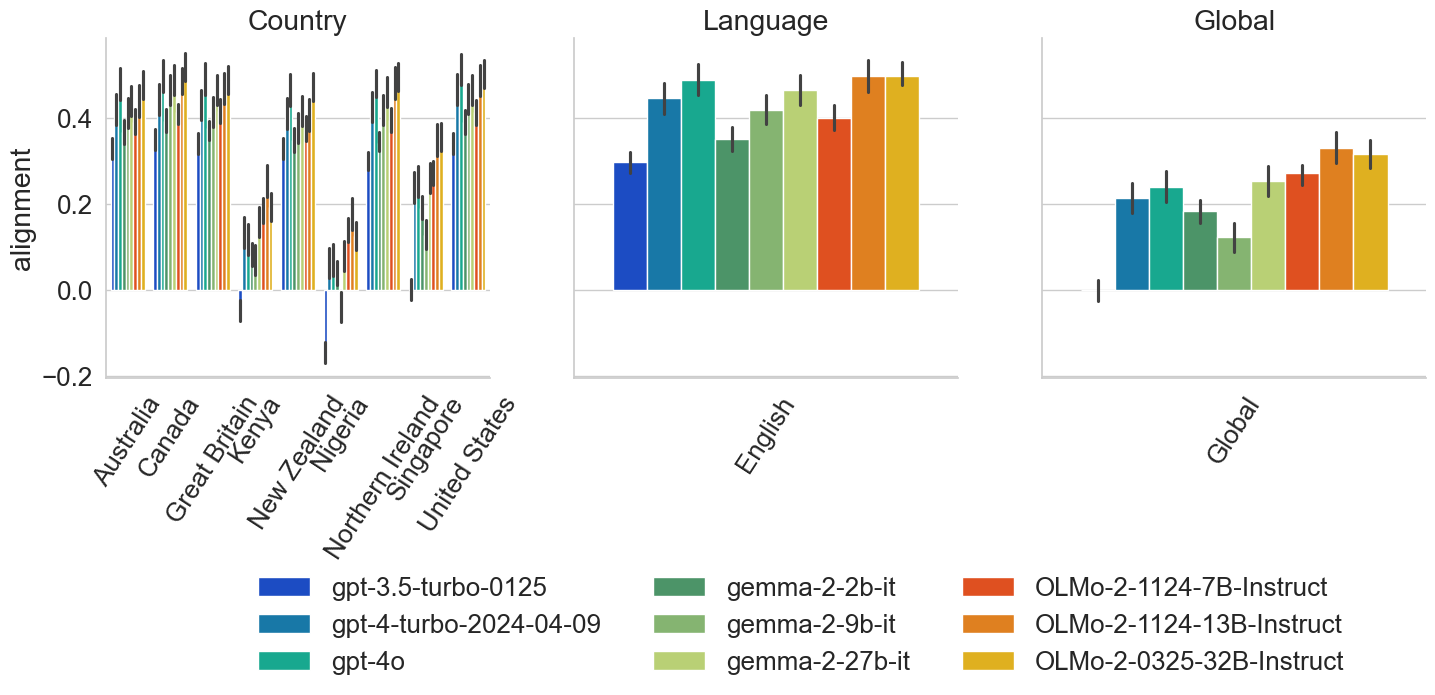
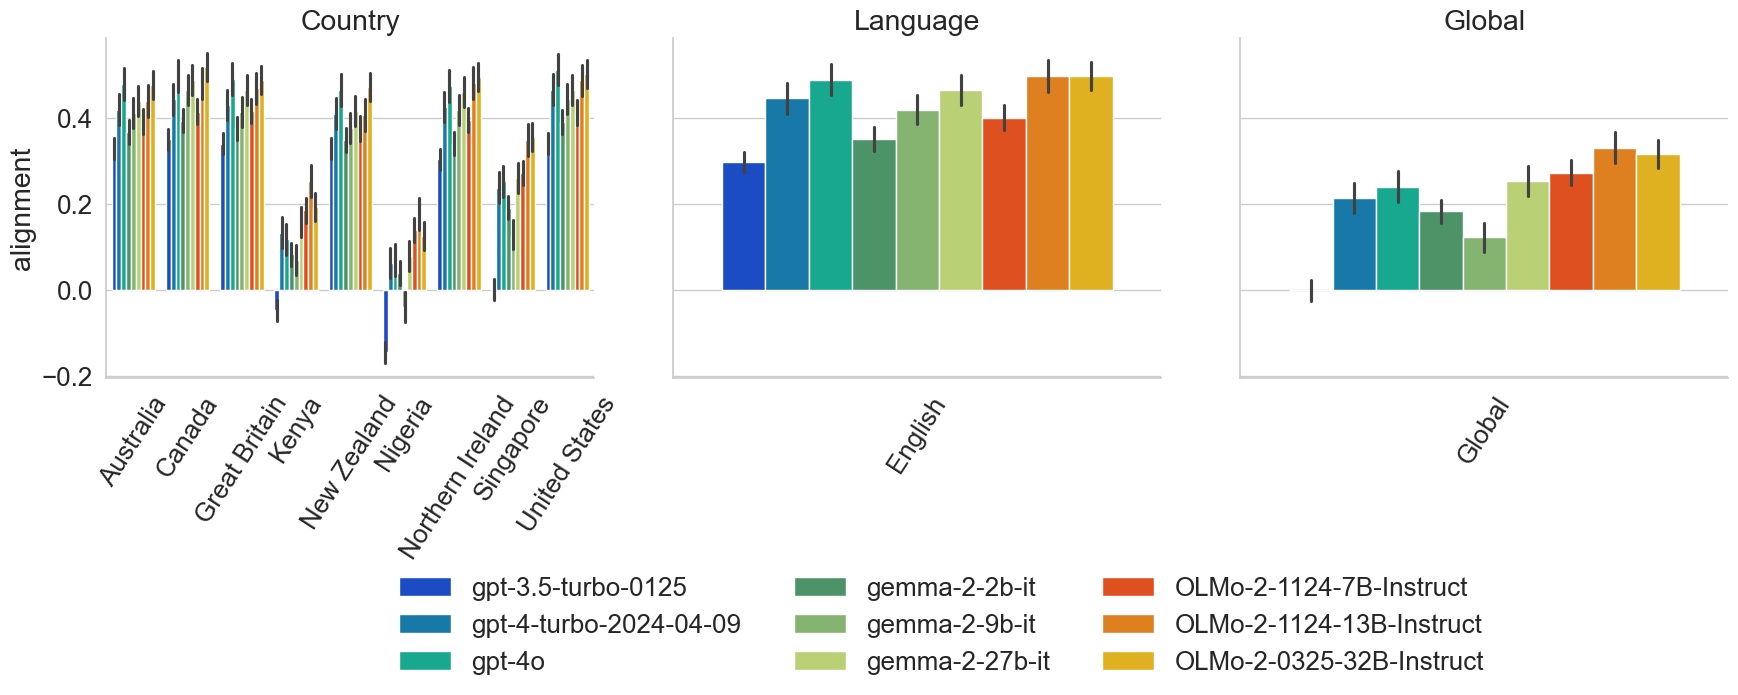
tweak

diff --git a/scripts/plot_language_analyses.py b/scripts/plot_language_analyses.py
@@ -83,7 +83,8 @@ def create_english_plot(filtered_plot_data: pl.DataFrame, metric: str) -> None:
         y="alignment",
         kind="bar",
         sharex=False,
-        errorbar="ci",
+        aspect=1.2,
+        errorbar=("pi", 100),
         palette=get_model_color_dict(),
     ).set_titles("{col_name}")
 
@@ -111,17 +112,18 @@ def create_monocultural_plot(filtered_plot_data: pl.DataFrame, metric: str) -> N
         y="alignment",
         kind="bar",
         sharex=False,
-        errorbar="ci",
-        aspect=1.3,
+        aspect=1.5,
+        errorbar="pi",
         palette=get_model_color_dict(),
     ).set_titles("{row_name} | {col_name}")
+    plt.subplots_adjust(hspace=0.35)  # Reduce vertical spacing (default is ~0.2-0.3)
 
     sns.move_legend(plot, loc="upper center", bbox_to_anchor=(0.42, 0.05), ncol=3, title=None)
 
     for ax in plot.axes.flat:
         ax.set_ylabel("")
 
-    plot.figure.supylabel("cultural alignment", x=0.035)
+    plot.figure.supylabel("cultural alignment", x=0.02)
     plot.set(xlabel=None)
     plt.savefig(PLOT_DIR / f"monolingual-{metric}-gt_alignment.png", bbox_inches="tight")
 
@@ -137,11 +139,10 @@ def create_portuguese_plot(filtered_plot_data: pl.DataFrame, metric: str) -> Non
         y="alignment",
         kind="bar",
         sharex=False,
-        errorbar="ci",
+        errorbar="pi",
+        height=6,
         palette=get_model_color_dict(),
-        aspect=1.1,
     ).set_titles("{col_name}")
-
     sns.move_legend(plot, loc="upper center", bbox_to_anchor=(0.42, 0.1), ncol=3, title=None)
     plot.set(xlabel=None)
     plt.savefig(PLOT_DIR / f"pt-{metric}_gt_alignment.png", bbox_inches="tight")
